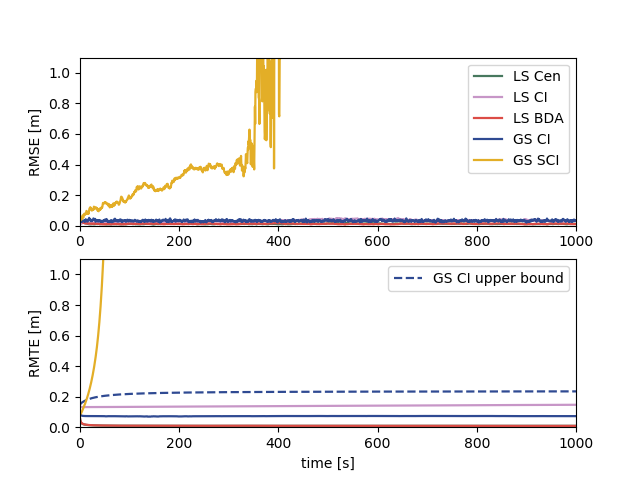
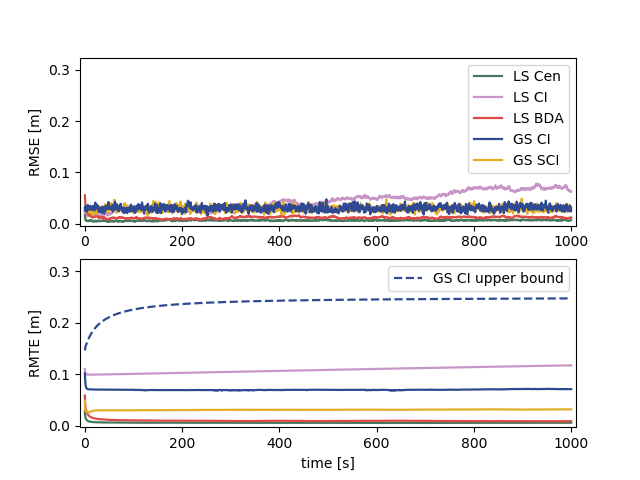
update plotting

diff --git a/performance_plot.py b/performance_plot.py
@@ -120,7 +120,14 @@ gs_sci_file.close()
 
 ### Performance Plot
 
-y_lim_upper = 0.3 #1.1 
+y_lim = [0, 0.32] 
+x_lim = [0, sim_env.total_T*sim_env.dt]
+
+x_lim_boarder = (x_lim[1]-x_lim[0])*0.01
+x_lim_extra = [x_lim[0]-x_lim_boarder, x_lim[1]+x_lim_boarder]
+
+y_lim_boarder = (y_lim[1]-y_lim[0])*0.01
+y_lim_extra = [y_lim[0]-y_lim_boarder, y_lim[1]+y_lim_boarder]
 
 plt.figure(1)
 plt.subplot(211)
@@ -134,8 +141,8 @@ gs_ci_plt, = plt.plot(time_arr, gs_ci_error, label = 'GS CI', linewidth = 1.6, c
 
 plt.legend([ls_cen_plt, ls_ci_plt, ls_bda_plt, gs_ci_plt, gs_sci_plt], ['LS Cen', 'LS CI', 'LS BDA', 'GS CI', 'GS SCI'])
 plt.ylabel('RMSE [m]')
-plt.xlim([0, sim_env.total_T*sim_env.dt])
-plt.ylim([0, y_lim_upper])
+plt.xlim(x_lim_extra)
+plt.ylim(y_lim_extra)
 
 
 
@@ -158,11 +165,11 @@ plt.plot(time_arr, gs_sci_tr, linewidth = 1.6, color = sim_color['gs_sci'])
 plt.legend()
 plt.xlabel('time [s]')
 plt.ylabel('RMTE [m]')
-plt.xlim([0, sim_env.total_T*sim_env.dt])
-plt.ylim([0, y_lim_upper])
+plt.xlim(x_lim_extra)
+plt.ylim(y_lim_extra)
 
 
-# plt.savefig('plot/performance_dr.png')
+plt.savefig('plot/performance.png')
 
 plt.show()
 
